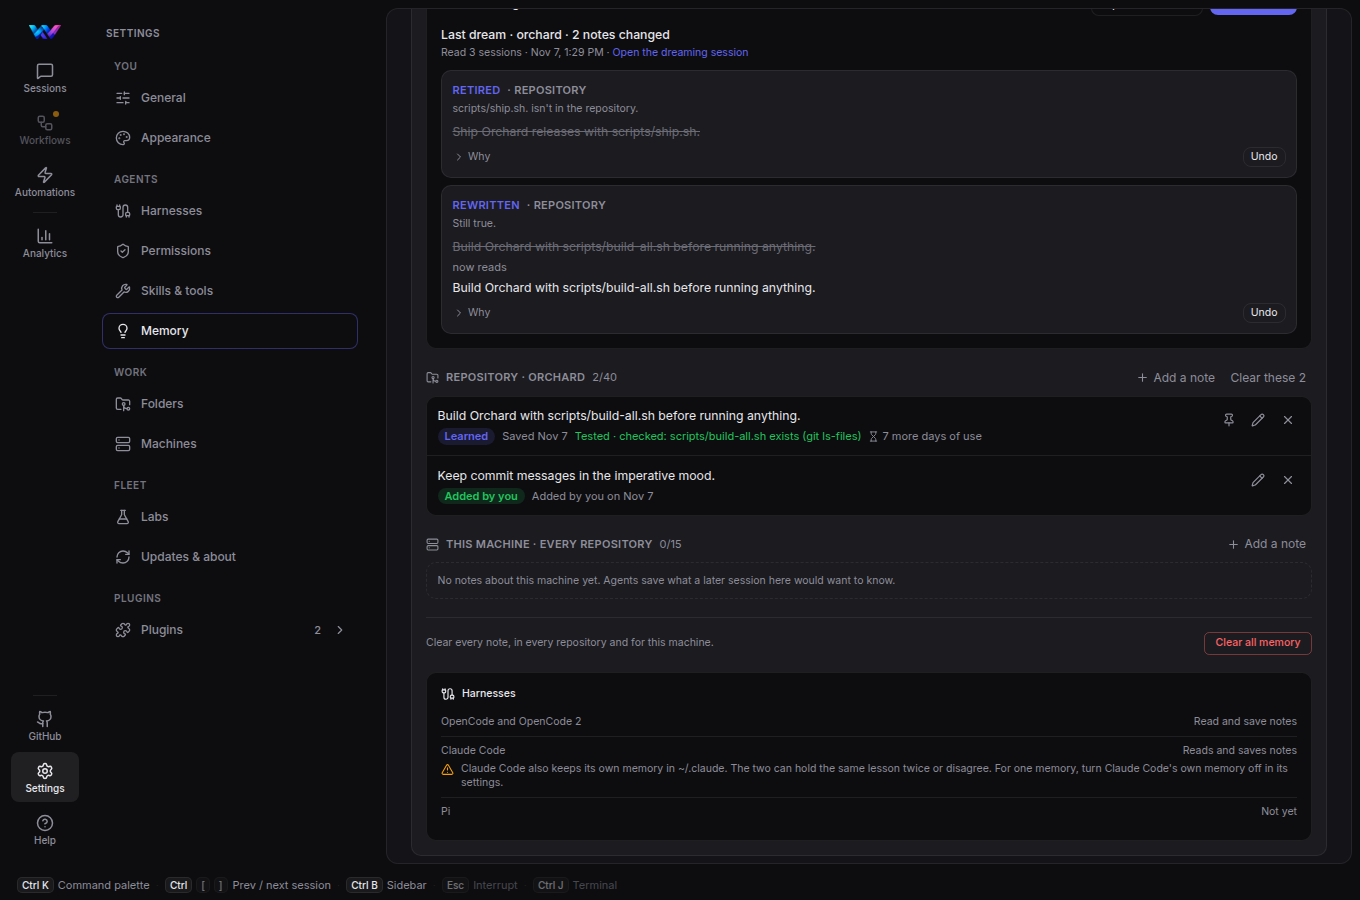
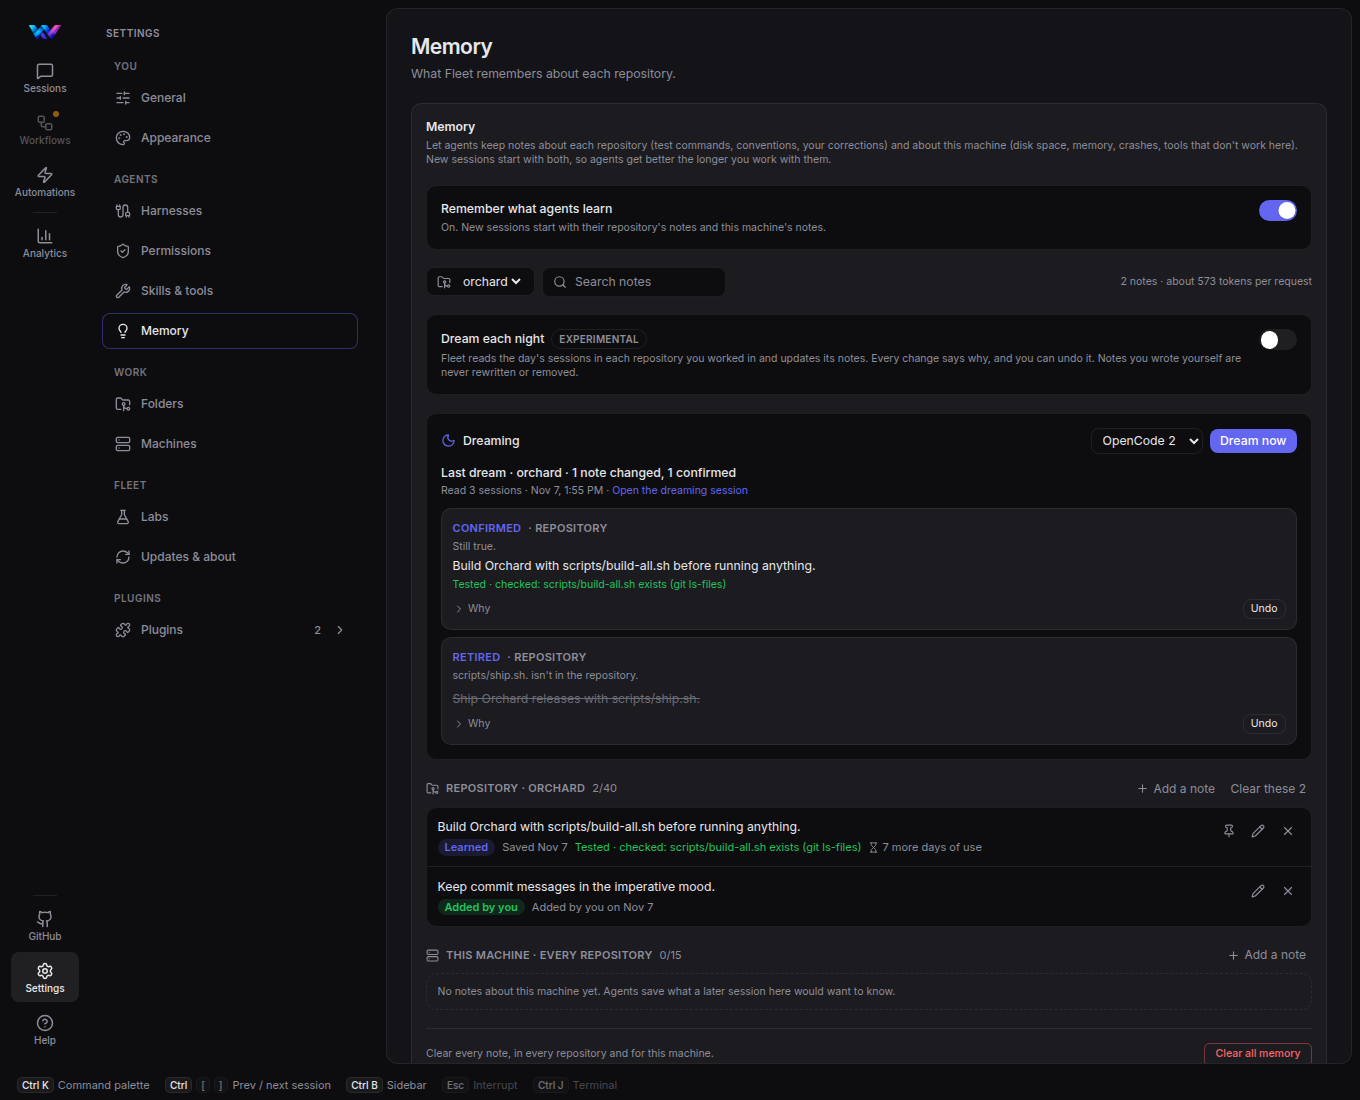
feat(dreaming): a note a dream confirms is its own change kind, not a rewrite

diff --git a/client/src/lib/dreaming.ts b/client/src/lib/dreaming.ts
@@ -12,7 +12,7 @@ export interface DreamSessionRef {
   harnessType: string | null;
 }
 
-export type DreamChangeKind = "added" | "rewritten" | "merged" | "retired" | "kept" | "left" | "skipped" | "flagged";
+export type DreamChangeKind = "added" | "rewritten" | "confirmed" | "merged" | "retired" | "kept" | "left" | "skipped" | "flagged";
 
 export interface DreamChangeView {
   id: string;
@@ -30,6 +30,8 @@ export interface DreamChangeView {
   undone: boolean;
   /** What the dream read to check the note: the file or commit, and what it showed. */
   evidence?: string | null;
+  /** For a confirmed note: how it's now known to hold. */
+  how?: string | null;
 }
 
 export type DreamStatus = "reading" | "running" | "done" | "failed";
@@ -92,6 +94,9 @@ export function formatTokens(tokens: number): string {
 export const appliedDreamChanges = (dream: DreamView): DreamChangeView[] =>
   groupDreamChanges(dream.changes).applied.filter((change) => !change.undone);
 
+/** Applied changes that altered a note: a confirmed note holds as it was, so it isn't counted here. */
+export const changedDreamNotes = (dream: DreamView): DreamChangeView[] => appliedDreamChanges(dream).filter((change) => change.kind !== "confirmed");
+
 /** The user's notes a dream flagged as out of date that nobody has dealt with yet. */
 export const openDreamFlags = (dream: DreamView): DreamChangeView[] =>
   groupDreamChanges(dream.changes).flagged.filter((change) => !change.undone);
@@ -99,7 +104,7 @@ export const openDreamFlags = (dream: DreamView): DreamChangeView[] =>
 export function describeDreamChanges(dream: DreamView): string {
   const counts = new Map<DreamChangeKind, number>();
   for (const change of appliedDreamChanges(dream)) counts.set(change.kind, (counts.get(change.kind) ?? 0) + 1);
-  const words: Record<string, string> = { added: "added", rewritten: "rewritten", merged: "merged", retired: "retired", kept: "kept for good" };
+  const words: Record<string, string> = { added: "added", rewritten: "rewritten", confirmed: "confirmed", merged: "merged", retired: "retired", kept: "kept for good" };
   const parts = [...counts].map(([kind, count]) => `${count} ${words[kind]}`);
   const flags = openDreamFlags(dream).length;
   if (flags > 0) parts.push(`${flags} looks out of date`);
@@ -113,6 +118,7 @@ export const isDreamBusy = (dream: DreamView | null | undefined): boolean => dre
 const KIND_LABELS: Record<DreamChangeKind, string> = {
   added: "Added",
   rewritten: "Rewritten",
+  confirmed: "Confirmed",
   merged: "Merged",
   retired: "Retired",
   kept: "Kept for good",

diff --git a/client/src/components/settings/memory/DreamingPanel.vue b/client/src/components/settings/memory/DreamingPanel.vue
@@ -48,7 +48,12 @@ const busy = computed(() => isDreamBusy(dream.value));
 const groups = computed(() => groupDreamChanges(dream.value?.changes ?? []));
 const flags = computed(() => groups.value.flagged.filter((change) => !change.undone));
 const editing = ref<{ id: string; text: string } | null>(null);
-const changedCount = computed(() => groups.value.applied.filter((change) => !change.undone).length);
+const inPlace = computed(() => groups.value.applied.filter((change) => !change.undone));
+const confirmedCount = computed(() => inPlace.value.filter((change) => change.kind === "confirmed").length);
+const changedCount = computed(() => inPlace.value.length - confirmedCount.value);
+const changedSummary = computed(
+  () => `${changedCount.value} ${changedCount.value === 1 ? "note" : "notes"} changed${confirmedCount.value > 0 ? `, ${confirmedCount.value} confirmed` : ""}`,
+);
 
 const when = new Intl.DateTimeFormat(undefined, { day: "numeric", month: "short", hour: "numeric", minute: "2-digit" });
 const harnessLabel = (type: string | null) => enabledHarnesses.value.find((harness) => harness.type === type)?.displayName ?? type ?? "";
@@ -241,7 +246,7 @@ function sessionLabel(session: DreamSessionRef): string {
           class="mt-3"
         >
           <p class="text-sm font-medium text-text">
-            {{ dream.runId ? "Last night" : "Last dream" }} · {{ dream.repositoryName }} · {{ changedCount }} {{ changedCount === 1 ? "note" : "notes" }} changed
+            {{ dream.runId ? "Last night" : "Last dream" }} · {{ dream.repositoryName }} · {{ changedSummary }}
           </p>
           <p class="mt-0.5 text-xs text-muted">
             Read {{ dream.readSessions.length }} {{ dream.readSessions.length === 1 ? "session" : "sessions" }}
@@ -441,6 +446,14 @@ function sessionLabel(session: DreamSessionRef): string {
                 class="mt-1 text-sm text-text"
               >
                 {{ change.text }}
+              </p>
+              <p
+                v-if="change.kind === 'confirmed' && change.how"
+                class="mt-1 text-xs"
+                style="color: var(--running)"
+                data-testid="dream-how"
+              >
+                Tested · {{ change.how }}
               </p>
 
               <div class="mt-2 flex items-center justify-between gap-2">

diff --git a/client/src/composables/use-dream-notices.ts b/client/src/composables/use-dream-notices.ts
@@ -4,7 +4,7 @@ import { Moon } from "lucide-vue-next";
 import { onDomainEvent } from "@/composables/on-domain-event";
 import { useDreamingFeature } from "@/composables/use-dreaming-feature";
 import { useSettingsNav } from "@/composables/use-settings-nav";
-import { appliedDreamChanges, describeDreamChanges, getNightlyDreaming, MEMORY_DREAMED, openDreamFlags, type DreamView } from "@/lib/dreaming";
+import { appliedDreamChanges, changedDreamNotes, describeDreamChanges, getNightlyDreaming, MEMORY_DREAMED, openDreamFlags, type DreamView } from "@/lib/dreaming";
 import { liveTarget } from "@/lib/machine-target";
 import { useNoticesStore } from "@/stores/notices";
 
@@ -20,18 +20,19 @@ export function useDreamNotices(): void {
   let unsubscribe: (() => void) | null = null;
 
   function show(dream: DreamView): void {
-    const changed = appliedDreamChanges(dream).length;
+    const changed = changedDreamNotes(dream).length;
+    const confirmed = appliedDreamChanges(dream).length - changed;
     const flagged = openDreamFlags(dream).length;
-    if (!dream.runId || dream.status !== "done" || changed + flagged === 0) return;
+    if (!dream.runId || dream.status !== "done" || changed + confirmed + flagged === 0) return;
     const id = `dream-${dream.id}`;
     notices.post({
       id,
-      title: changed > 0 ? `Fleet updated ${dream.repositoryName}'s notes` : `Some of ${dream.repositoryName}'s notes look out of date`,
+      title: changed > 0 ? `Fleet updated ${dream.repositoryName}'s notes` : confirmed > 0 ? `Fleet checked ${dream.repositoryName}'s notes` : `Some of ${dream.repositoryName}'s notes look out of date`,
       body: describeDreamChanges(dream),
       icon: Moon,
       actions: [
         {
-          label: changed > 0 ? "See what changed" : "Review",
+          label: changed + confirmed > 0 ? "See what changed" : "Review",
           tone: "primary",
           run: () => {
             openMemory(dream.repository);

diff --git a/client/src/components/settings/__tests__/DreamingMemory.test.ts b/client/src/components/settings/__tests__/DreamingMemory.test.ts
@@ -130,6 +130,30 @@ describe("Dreaming in Settings → Memory", () => {
     expect(mocks.listDreams).not.toHaveBeenCalled();
   });
 
+  it("shows a confirmed note once, as Tested, and counts it apart from the notes changed", async () => {
+    mocks.listDreams.mockResolvedValue([
+      dreamView({
+        changes: [
+          change("retired", { text: null, replaced: [{ id: "o1", text: "ship with ship.sh", kind: "learned", list: "repository" }] }),
+          change("confirmed", {
+            id: "c-confirmed",
+            text: "Build with build-all.sh.",
+            how: "checked: scripts/build-all.sh exists",
+            replaced: [{ id: "n1", text: "Build with build-all.sh.", kind: "learned", list: "repository" }],
+          }),
+        ],
+      }),
+    ]);
+    const wrapper = await mountSection();
+    const text = wrapper.get("[data-testid='dreaming-panel']").text();
+
+    expect(text).toContain("Last dream · acme-widgets · 1 note changed, 1 confirmed");
+    expect(text).toContain("Confirmed");
+    expect(wrapper.get("[data-testid='dream-how']").text()).toBe("Tested · checked: scripts/build-all.sh exists");
+    expect(text.split("Build with build-all.sh.").length - 1).toBe(1);
+    expect(text).not.toContain("now reads");
+  });
+
   it("shows the latest dream's cards, evidence and the skipped group", async () => {
     const wrapper = await mountSection();
     const text = wrapper.get("[data-testid='dreaming-panel']").text();

diff --git a/src/WeaveFleet.Application/Memory/Dreaming/DreamApplier.cs b/src/WeaveFleet.Application/Memory/Dreaming/DreamApplier.cs
@@ -126,7 +126,14 @@ public sealed class DreamApplier(IMemoryStore store, TimeProvider time)
 
         var written = current with { Text = change.Text!, How = how, Updated = time.GetUtcNow() };
         await store.SaveAsync(userId, written, ct).ConfigureAwait(false);
-        change.Kind = DreamRules.ChangeKinds.Rewritten;
+        // Same text, new how: the dream checked the note and it holds, which isn't a rewrite.
+        if (change.Text == current.Text)
+        {
+            change.Kind = DreamRules.ChangeKinds.Confirmed;
+            change.How = how;
+        }
+        else
+            change.Kind = DreamRules.ChangeKinds.Rewritten;
         change.Replaced = replaced;
         change.WroteHash = DreamRules.HashOf(written);
         return change;
@@ -311,7 +318,7 @@ public sealed class DreamApplier(IMemoryStore store, TimeProvider time)
             return null;
         }
 
-        if (change.Kind is not (DreamRules.ChangeKinds.Added or DreamRules.ChangeKinds.Rewritten or DreamRules.ChangeKinds.Merged or DreamRules.ChangeKinds.Retired or DreamRules.ChangeKinds.Kept))
+        if (change.Kind is not (DreamRules.ChangeKinds.Added or DreamRules.ChangeKinds.Rewritten or DreamRules.ChangeKinds.Confirmed or DreamRules.ChangeKinds.Merged or DreamRules.ChangeKinds.Retired or DreamRules.ChangeKinds.Kept))
             return FleetError.ValidationError("Dream.Undo", "Only a change Fleet made can be undone.");
 
         var refused = FleetError.ValidationError("Dream.Undo", UndoRefused);
@@ -324,6 +331,7 @@ public sealed class DreamApplier(IMemoryStore store, TimeProvider time)
                 await store.DeleteAsync(userId, [id], ct).ConfigureAwait(false);
                 break;
             case DreamRules.ChangeKinds.Rewritten:
+            case DreamRules.ChangeKinds.Confirmed:
                 if (!await UnchangedAsync(userId, id, change.WroteHash, ct).ConfigureAwait(false) || change.Replaced.Count == 0)
                     return refused;
                 await store.SaveAsync(userId, change.Replaced[0], ct).ConfigureAwait(false);

diff --git a/src/WeaveFleet.Application/Memory/Dreaming/DreamNights.cs b/src/WeaveFleet.Application/Memory/Dreaming/DreamNights.cs
@@ -190,7 +190,7 @@ public sealed partial class DreamingAutomation(
             : DreamRules.DefaultBudgetTokens;
 
     /// <summary>
-    /// "orchard: 2 notes changed", "orchard: 1 note added", "orchard: no changes", or why it failed; a note flagged as out of
+    /// "orchard: 2 notes changed", "orchard: 1 note added", "orchard: no changes", or why it failed; a note confirmed or flagged as out of
     /// date changed nothing, so it's counted apart ("orchard: 1 note added, 2 look out of date").
     /// </summary>
     internal static string Describe(string name, Dream dream)
@@ -198,7 +198,8 @@ public sealed partial class DreamingAutomation(
         if (dream.Status != DreamRules.Statuses.Done)
             return $"{name}: {(dream.Error ?? "failed").TrimEnd('.')}";
 
-        var applied = dream.Changes.Where(c => c.Kind is not (DreamRules.ChangeKinds.Left or DreamRules.ChangeKinds.Skipped or DreamRules.ChangeKinds.Flagged)).ToList();
+        var applied = dream.Changes.Where(c => c.Kind is not (DreamRules.ChangeKinds.Left or DreamRules.ChangeKinds.Skipped or DreamRules.ChangeKinds.Flagged or DreamRules.ChangeKinds.Confirmed)).ToList();
+        var confirmed = dream.Changes.Count(c => c.Kind == DreamRules.ChangeKinds.Confirmed);
         var flagged = dream.Changes.Count(c => c.Kind == DreamRules.ChangeKinds.Flagged);
         var changed = applied.Count switch
         {
@@ -206,6 +207,8 @@ public sealed partial class DreamingAutomation(
             1 => $"{name}: 1 note {applied[0].Kind}",
             var count => $"{name}: {count} notes changed",
         };
+        if (confirmed > 0)
+            changed = applied.Count == 0 ? $"{name}: {confirmed} confirmed" : $"{changed}, {confirmed} confirmed";
         return flagged switch
         {
             0 => changed,

diff --git a/src/WeaveFleet.Application/Memory/Dreaming/DreamModel.cs b/src/WeaveFleet.Application/Memory/Dreaming/DreamModel.cs
@@ -59,6 +59,9 @@ public static class DreamRules
     {
         public const string Added = "added";
         public const string Rewritten = "rewritten";
+
+        /// <summary>An untested learned note the dream checked and found true: the text stays, only its <c>how</c> is new.</summary>
+        public const string Confirmed = "confirmed";
         public const string Merged = "merged";
         public const string Retired = "retired";
         public const string Kept = "kept";
@@ -135,6 +138,9 @@ public sealed class DreamChange
     /// <summary>What the dream read to check a note: the file or commit, with what it showed. Rewrite, retire and flag carry it.</summary>
     public string? Evidence { get; set; }
 
+    /// <summary>For a confirmed note: how it's now known to hold, as written on the note.</summary>
+    public string? How { get; set; }
+
     /// <summary>For a flag: the hash of the note as flagged, so a later dream doesn't flag the same unchanged note again.</summary>
     public string? NoteHash { get; set; }
 
@@ -189,7 +195,8 @@ public sealed record DreamChangeView(
     string? Quote,
     string? Reason,
     bool Undone,
-    string? Evidence = null);
+    string? Evidence = null,
+    string? How = null);
 
 public sealed record DreamView(
     string Id,
@@ -234,7 +241,8 @@ public sealed record DreamView(
                 change.Quote,
                 change.Reason,
                 change.Undone,
-                change.Evidence))],
+                change.Evidence,
+                change.How))],
             dream.RunId,
             dream.Tokens,
             dream.Since);

diff --git a/tests/WeaveFleet.Application.Tests/Memory/DreamingAutomationTests.cs b/tests/WeaveFleet.Application.Tests/Memory/DreamingAutomationTests.cs
@@ -236,6 +236,9 @@ public sealed class DreamingAutomationTests : IDisposable
         DreamingAutomation.Describe("orchard", Done("left", "skipped")).ShouldBe("orchard: no changes");
         DreamingAutomation.Describe("orchard", Done("added")).ShouldBe("orchard: 1 note added");
         DreamingAutomation.Describe("orchard", Done("added", "merged", "left")).ShouldBe("orchard: 2 notes changed");
+        DreamingAutomation.Describe("orchard", Done("confirmed")).ShouldBe("orchard: 1 confirmed");
+        DreamingAutomation.Describe("orchard", Done("retired", "confirmed")).ShouldBe("orchard: 1 note retired, 1 confirmed");
+        DreamingAutomation.Describe("orchard", Done("added", "merged", "confirmed", "confirmed")).ShouldBe("orchard: 2 notes changed, 2 confirmed");
         DreamingAutomation.Describe("orchard", Done("flagged")).ShouldBe("orchard: no changes, 1 looks out of date");
         DreamingAutomation.Describe("orchard", Done("retired", "flagged", "flagged")).ShouldBe("orchard: 1 note retired, 2 look out of date");
         DreamingAutomation.Describe("orchard", new Dream { Status = "failed", Error = "Ran out of time." }).ShouldBe("orchard: Ran out of time");

diff --git a/tests/WeaveFleet.Application.Tests/Memory/DreamApplierTests.cs b/tests/WeaveFleet.Application.Tests/Memory/DreamApplierTests.cs
@@ -492,7 +492,8 @@ public sealed class DreamApplierTests
             Evidence = "package.json has bun scripts", How = "checked: package.json has bun scripts",
         });
 
-        change.Kind.ShouldBe(DreamRules.ChangeKinds.Rewritten);
+        change.Kind.ShouldBe(DreamRules.ChangeKinds.Confirmed);
+        change.How.ShouldBe("checked: package.json has bun scripts");
         _store.Notes.Single().How.ShouldBe("checked: package.json has bun scripts");
         (await _applier.UndoAsync(User, _dream, change.Id)).ShouldBeNull();
         _store.Notes.Single().How.ShouldBeNull();
